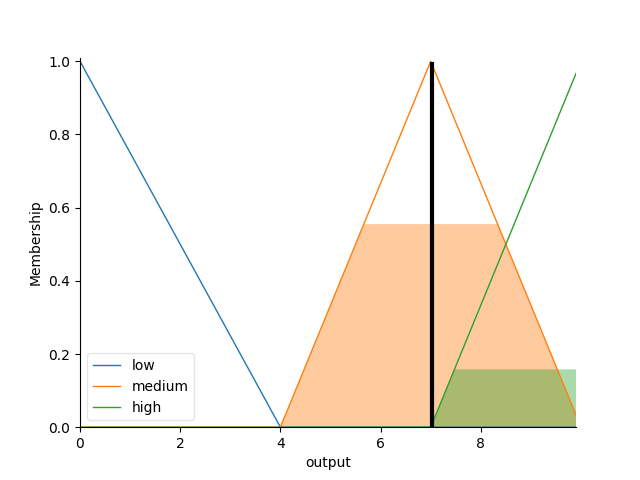
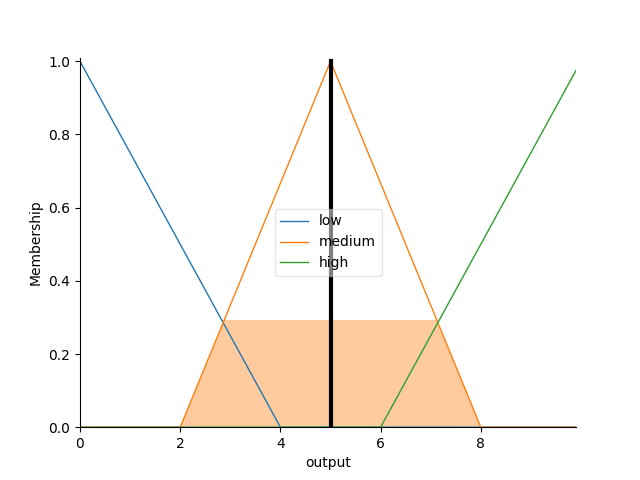
membership function values fix

diff --git a/app/helper/mf.py b/app/helper/mf.py
@@ -9,31 +9,31 @@ class MF():
 
     cough['neg'] = fuzz.trimf(cough.universe, [0, 0, 5.95])
 
-    cough['pos'] = fuzz.trimf(cough.universe, [5.95, 10, 10])
+    cough['pos'] = fuzz.trimf(cough.universe, [3.95, 10, 10])
 
     fever = ctrl.Antecedent(np.arange(0, 10, 0.1), 'fever')
 
     fever['low'] = fuzz.trimf(fever.universe,[0,0,2.65])
-    fever['medium'] = fuzz.trimf(fever.universe,[2.65,4.82,7])
+    fever['medium'] = fuzz.trimf(fever.universe,[1.65,4.82,7])
     fever['high'] = fuzz.trimf(fever.universe,[5,10,10])
 
     breath_diff = ctrl.Antecedent(np.arange(0, 10, 0.1), 'breath_diff')
 
     breath_diff['low'] = fuzz.trimf(breath_diff.universe,[0,0,6.50])
-    breath_diff['medium'] = fuzz.trimf(breath_diff.universe,[6.50,7.25,8])
-    breath_diff['high'] = fuzz.trimf(breath_diff.universe,[8,10,10])
+    breath_diff['medium'] = fuzz.trimf(breath_diff.universe,[5.50,6.80,7.25])
+    breath_diff['high'] = fuzz.trimf(breath_diff.universe,[7,10,10])
 
     pain = ctrl.Antecedent(np.arange(0, 10, 0.1), 'pain')
 
     pain['low'] = fuzz.trimf(pain.universe,[0,0,7.20])
-    pain['medium'] = fuzz.trimf(pain.universe,[7.20,7.70,8.20])
-    pain['high'] = fuzz.trimf(pain.universe,[8.20,10,10])
+    pain['medium'] = fuzz.trimf(pain.universe,[6.20,7.70,8.15])
+    pain['high'] = fuzz.trimf(pain.universe,[7.20,10,10])
 
     output = ctrl.Consequent(np.arange(0, 10, 0.1), 'output')
 
     output['low'] = fuzz.trimf(output.universe, [0, 0, 4])
-    output['medium'] = fuzz.trimf(output.universe, [4, 7, 10])
-    output['high'] = fuzz.trimf(output.universe, [7, 10, 10])
+    output['medium'] = fuzz.trimf(output.universe, [2, 5, 8])
+    output['high'] = fuzz.trimf(output.universe, [6, 10, 10])
 
 
     @staticmethod
